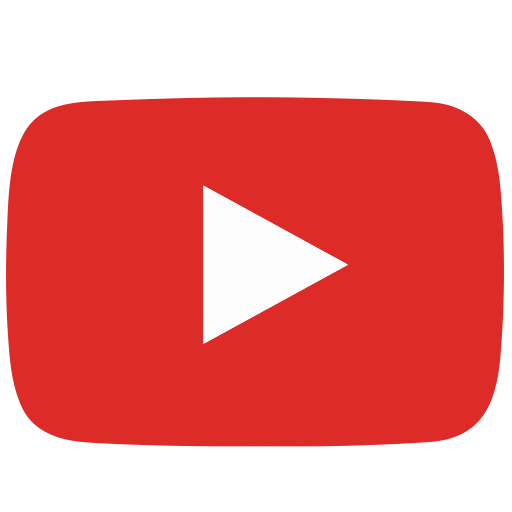
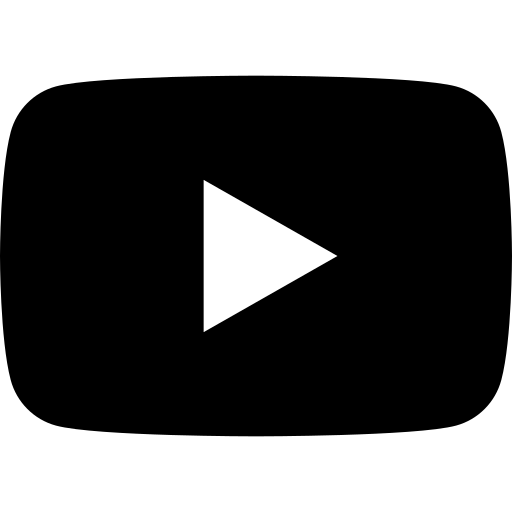
images

diff --git a/services/index.html b/services/index.html
@@ -139,9 +139,7 @@
       align-items: center;
       padding-bottom: 0px;
     }
-    .site-header{
-      /* background: rgba(7, 7, 7) !important; */
-    }
+   
 
     
 
@@ -412,6 +410,7 @@ align-items: flex-end;
         width: 20px;
         height: 20px;
         object-fit: cover;
+        filter: invert(100%);
     }
 
     .service-card:hover .service-arrow-btn {
@@ -703,10 +702,7 @@ align-items: flex-end;
     text-decoration: none;
 }
 @media(max-width:768px){
-  .logo-item img{
-    filter: invert(1);
-    
-  }
+ 
   .logos-section{
     margin-top: -83px;
   }
@@ -741,6 +737,19 @@ align-items: flex-end;
       .cta-banner-section{
         padding-bottom: 40px;
       }
+}
+ .logo-item img{
+    filter: invert(1);
+    
+  }
+  .icon-placeholder {
+    transition: filter 0.3s ease;
+}
+
+.social-item:hover .icon-placeholder {
+    filter: brightness(0) saturate(100%) 
+            invert(36%) sepia(99%) saturate(2074%) 
+            hue-rotate(357deg) brightness(101%) contrast(101%);
 }
  </style>
 
@@ -813,7 +822,7 @@ align-items: flex-end;
             <div class="feature-title">Paid Social Ads</div>
           </div>
           <div class="feature-card">
-            <div class="badge-icon"><img src="/assets/Service/Icon 2.png" alt="" class="icon-placeholder" /></div>
+            <div class="badge-icon"><img src="/assets/sreach-icon.png" alt="" class="icon-placeholder" /></div>
             <div class="feature-num">02</div>
             <div class="feature-title">Search & Intent</div>
           </div>
@@ -828,7 +837,7 @@ align-items: flex-end;
             <div class="feature-title">Ott & CTV</div>
           </div>
           <div class="feature-card">
-            <div class="badge-icon"><img src="/assets/Service/Icon 5.png" alt="" class="icon-placeholder" /></div>
+            <div class="badge-icon"><img src="/assets/Service/programmatic.png" alt="" class="icon-placeholder" /></div>
             <div class="feature-num">05</div>
             <div class="feature-title">Programmatic Media</div>
           </div>
@@ -864,7 +873,7 @@ align-items: flex-end;
             <h3 class="service-card-title">Affiliate Marketing</h3>
             <p class="service-card-desc">Scale your partnership channel with targeted outreach, robust attribution, and optimized tracking models.</p>
           </div>
-          <a href="/services/affiliate-marketing/" class="service-arrow-btn"><img src="/assets/Service/right-arrow.png" alt="" class="icon-placeholder" /></a>
+          <a href="/services/affiliate-marketing/" class="service-arrow-btn"><img src="/assets/Service/arrow-small-right.png" alt="" class="icon-placeholder" /></a>
         </div>
 
         <div class="service-card">
@@ -873,7 +882,7 @@ align-items: flex-end;
             <h3 class="service-card-title">App Marketing</h3>
             <p class="service-card-desc">Drive high-intent user acquisition and retention with data-driven mobile app performance strategies.</p>
           </div>
-          <a href="/services/app-marketing/" class="service-arrow-btn"><img src="/assets/Service/right-arrow.png" alt="" class="icon-placeholder" /></a>
+          <a href="/services/app-marketing/" class="service-arrow-btn"><img src="/assets/Service/arrow-small-right.png" alt="" class="icon-placeholder" /></a>
         </div>
 
         <div class="service-card">
@@ -882,7 +891,7 @@ align-items: flex-end;
             <h3 class="service-card-title">Commerce Media</h3>
             <p class="service-card-desc">Capture shoppers at key buying moments with retail media optimization and shopping campaigns.</p>
           </div>
-          <a href="/services/commerce-media-agency/" class="service-arrow-btn"><img src="/assets/Service/right-arrow.png" alt="" class="icon-placeholder" /></a>
+          <a href="/services/commerce-media-agency/" class="service-arrow-btn"><img src="/assets/Service/arrow-small-right.png" alt="" class="icon-placeholder" /></a>
         </div>
 
         <div class="service-card">
@@ -891,7 +900,7 @@ align-items: flex-end;
             <h3 class="service-card-title">Digital Audio Advertising</h3>
             <p class="service-card-desc">Reach engaged listeners across podcast and streaming platforms with precise audience targeting.</p>
           </div>
-          <a href="/services/digital-audio-advertising/" class="service-arrow-btn"><img src="/assets/Service/right-arrow.png" alt="" class="icon-placeholder" /></a>
+          <a href="/services/digital-audio-advertising/" class="service-arrow-btn"><img src="/assets/Service/arrow-small-right.png" alt="" class="icon-placeholder" /></a>
         </div>
 
         <div class="service-card">
@@ -900,7 +909,7 @@ align-items: flex-end;
             <h3 class="service-card-title">Digital Media Advertising</h3>
             <p class="service-card-desc">Execute multi-channel digital strategies designed to maximize cross-channel ROAS.</p>
           </div>
-          <a href="/services/digital-media-advertising/" class="service-arrow-btn"><img src="/assets/Service/right-arrow.png" alt="" class="icon-placeholder" /></a>
+          <a href="/services/digital-media-advertising/" class="service-arrow-btn"><img src="/assets/Service/arrow-small-right.png" alt="" class="icon-placeholder" /></a>
         </div>
 
         <div class="service-card">
@@ -909,7 +918,7 @@ align-items: flex-end;
             <h3 class="service-card-title">Display Advertising</h3>
             <p class="service-card-desc">Engage high-value segments through targeted visual ads across premium publisher networks.</p>
           </div>
-          <a href="/services/display-advertising-agency/" class="service-arrow-btn"><img src="/assets/Service/right-arrow.png" alt="" class="icon-placeholder" /></a>
+          <a href="/services/display-advertising-agency/" class="service-arrow-btn"><img src="/assets/Service/arrow-small-right.png" alt="" class="icon-placeholder" /></a>
         </div>
       </div>
     </div>
@@ -997,7 +1006,7 @@ align-items: flex-end;
 
           <div class="social-item">
             <div class="social-item-left">
-              <img src="/assets/Service/twitter.png" alt="" class="icon-placeholder" />
+              <img src="/assets/Service/twitter-alt.png" alt="" class="icon-placeholder" />
               <div>
                 <div class="social-name">X (Twitter) Advertising</div>
                 <div class="social-desc">Engage real-time conversations</div>
@@ -1008,7 +1017,7 @@ align-items: flex-end;
 
           <div class="social-item">
             <div class="social-item-left">
-              <img src="/assets/Service/tiktok.png" alt="" class="icon-placeholder" />
+              <img src="/assets/Service/tik-tok.png" alt="" class="icon-placeholder" />
               <div>
                 <div class="social-name">TikTok Advertising</div>
                 <div class="social-desc">Drive viral product discovery</div>

diff --git a/components/footer.html b/components/footer.html
@@ -9,10 +9,10 @@
         <h4>Turn<br>Ambitions<br>Into Results.</h4>
         <p>Strategy, creative, and media.<br>All focused on results.</p>
         <div class="socials">
-          <a href="https://linkedin.com" target="_blank" rel="noopener" aria-label="LinkedIn"><img src="/assets/linkedin.png" alt=""></a>
+          <a href="https://linkedin.com" target="_blank" rel="noopener" aria-label="LinkedIn"><img src="/assets/linkedin-square.png" alt=""></a>
           <a href="https://x.com" target="_blank" rel="noopener" aria-label="X / Twitter"><img src="/assets/instagram.png" alt=""></a>
-          <a href="https://instagram.com" target="_blank" rel="noopener" aria-label="Instagram"><img src="/assets/play.png" alt=""></a>
-          <a href="https://pinterest.com" target="_blank" rel="noopener" aria-label="Pinterest"><img src="/assets/facebook-app-symbol.png" alt=""></a>
+          <a href="https://instagram.com" target="_blank" rel="noopener" aria-label="Instagram"><img src="/assets/Service/youtube.png" alt=""></a>
+          <a href="https://pinterest.com" target="_blank" rel="noopener" aria-label="Pinterest"><img src="/assets/facebook.png" alt=""></a>
         </div>
       </div>
 

diff --git a/about/index.html b/about/index.html
@@ -51,7 +51,7 @@ Twitter Meta
   --muted-2:      #999999;
   --line:         #E4E1DB;
   --line-dark:    #242424;
-  --max:          1240px;
+  --max:          1320px;
   --pad:          28px;
   --font-display: 'Bebas Neue', Impact, sans-serif;
   --font-heading: 'Plus Jakarta Sans', -apple-system, BlinkMacSystemFont, sans-serif;
@@ -891,6 +891,7 @@ button, input { font: inherit; }
   margin-left: auto;
   max-width: 340px;
   width: 100%;
+  display: none;
   transition: transform .3s ease, border-color .3s ease;
 }
 .data-stat-box:hover { transform: translateY(-4px); border-color: #3a3a3a; }
@@ -1487,6 +1488,9 @@ footer.nexus-footer {
   .data-pills { gap: 7px; }
   .data-pill { padding: 6px 12px; font-size: 10.5px; }
 }
+.black img{
+  filter: brightness(0);
+}
 
 /* .site-header{
   background-color: #0B0B0B;
@@ -1642,7 +1646,7 @@ footer.nexus-footer {
                 <div class="lbl">Campaigns</div>
               </div>
             </div>
-            <div class="who-metric-card">
+            <div class="who-metric-card black">
               <img src="/assets/About Page assets/Icon 11.png" alt="" class="ic">
               <div>
                 <div class="num">35+</div>

diff --git a/services/digital-media-advertising/index.html b/services/digital-media-advertising/index.html
@@ -37,6 +37,9 @@
     display: grid;
     grid-template-columns: repeat(5,1fr);
 }
+.opportunity .process{
+              grid-template-columns: repeat(3, 1fr);
+            }
 .process-arrow{
   display: none;
 }
@@ -71,6 +74,7 @@
                 display: grid;
                 grid-template-columns: 1fr 1fr;
             }
+            
         }
 @media (min-width: 1024px) {
 
@@ -212,12 +216,12 @@
                 </div>
                 <div class="process-arrow">→</div>
 
-                <div class="process-step none">
+                <!-- <div class="process-step none">
                     <div class="img-cont">
                         <img src="/assets/Service/Digital Media Advertising/Icon 7.png" alt="Revenue icon">
                     </div>
                     Revenue
-                </div>
+                </div> -->
             </div>
         </div>
     </section>

diff --git a/services/growth-marketing-agency/index.html b/services/growth-marketing-agency/index.html
@@ -42,7 +42,7 @@
             text-align: center;
         }
         .opportunity .process{
-            grid-template-columns: repeat(3,1fr);
+            grid-template-columns: repeat(5,1fr);
         }
         .services-title {
             font-family: var(--font-heading);
@@ -429,12 +429,12 @@
                 </div>
                 <div class="process-arrow">→</div>
 
-                <div class="process-step">
+                <!-- <div class="process-step">
                     <div class="img-cont">
                         <img src="/assets/Service/Growth Marketing/06_Product-Led_Growth.png" alt="Expansion icon">
                     </div>
                     Expansion
-                </div>
+                </div> -->
             </div>
         </div>
     </section>

diff --git a/services/product-lead-marketing/index.html b/services/product-lead-marketing/index.html
@@ -38,6 +38,13 @@
 .approach-title{
     font-size: clamp(29px, 4.6vw, 47px)
 }
+.process-step{
+  text-align: center;
+}
+.process-arrow{
+  display: none;
+}
+
 
         .process-step {
             display: flex;
@@ -49,16 +56,7 @@
             font-size: 10px;
         }
 
-        .process {
-            display: flex;
-            align-items: center;
-            justify-content: space-between;
-            background: var(--paper);
-            border-radius: 20px;
-            padding: 26px 30px;
-            flex-wrap: wrap;
-            gap: 0px;
-        }
+        
 
         .services-section {
             background: var(--panel);

diff --git a/services/services.css b/services/services.css
@@ -247,7 +247,7 @@
             margin: 0 0 14px;
         }
 
-        measure-copy {
+        .measure-copy {
     color: var(--muted);
     font-size: 14px;
     line-height: 1.7;
@@ -272,8 +272,9 @@
             background: var(--paper);
             /* border: 1px solid var(--line); */
             border-radius: 20px;
+            gap: 10px;
             padding: 26px 30px;
-            flex-wrap: wrap;
+            /* flex-wrap: wrap; */
             /* gap: 18px; */
         }
 

diff --git a/services/media-buying/index.html b/services/media-buying/index.html
@@ -24,8 +24,11 @@
         /* border: 1px solid var(--line); */
         border-radius: 20px;
         padding: 26px 1px;
-        flex-wrap: wrap;
-        gap: -12px;
+        flex-wrap: nowrap;
+        gap: 12px;
+    }
+    .process-step{
+      text-align: center;
     }
 }
 @media (min-width: 1024px) {

diff --git a/components/header-footer.css b/components/header-footer.css
@@ -1083,5 +1083,6 @@ footer {
   width: 20px;
   height: 20px;
   object-fit: cover;
+  filter: invert(100%);
 }
 
